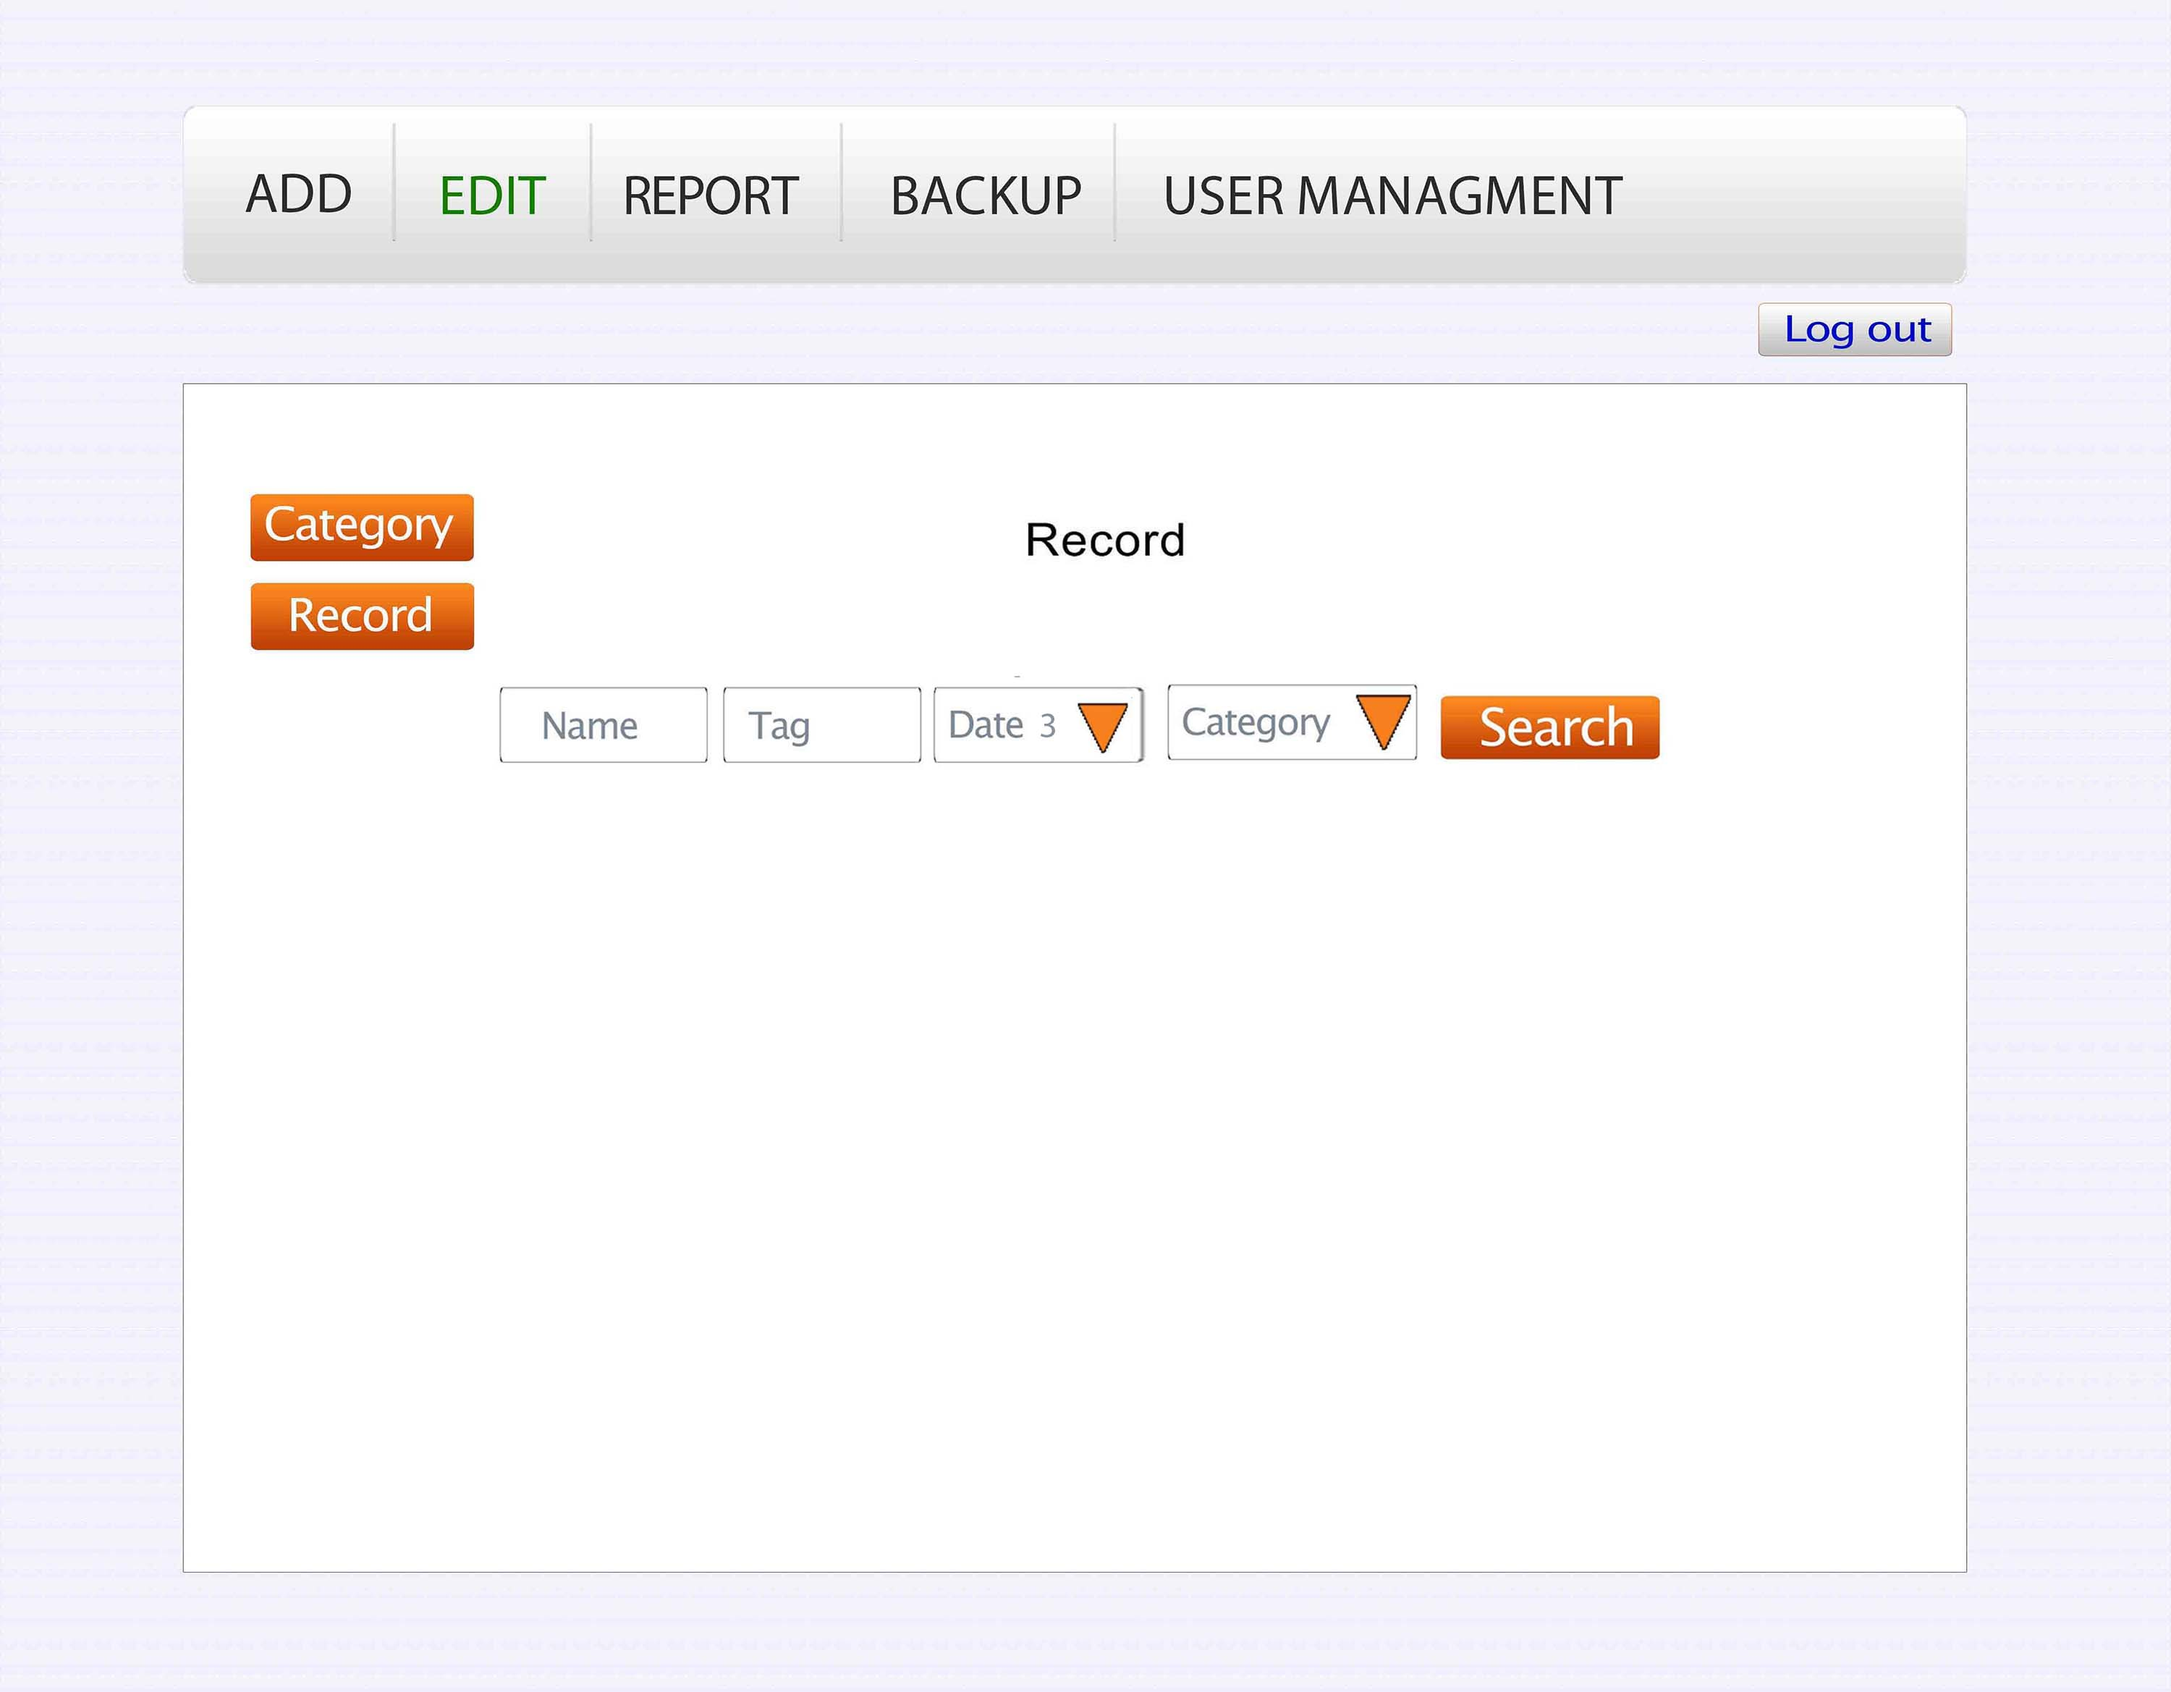
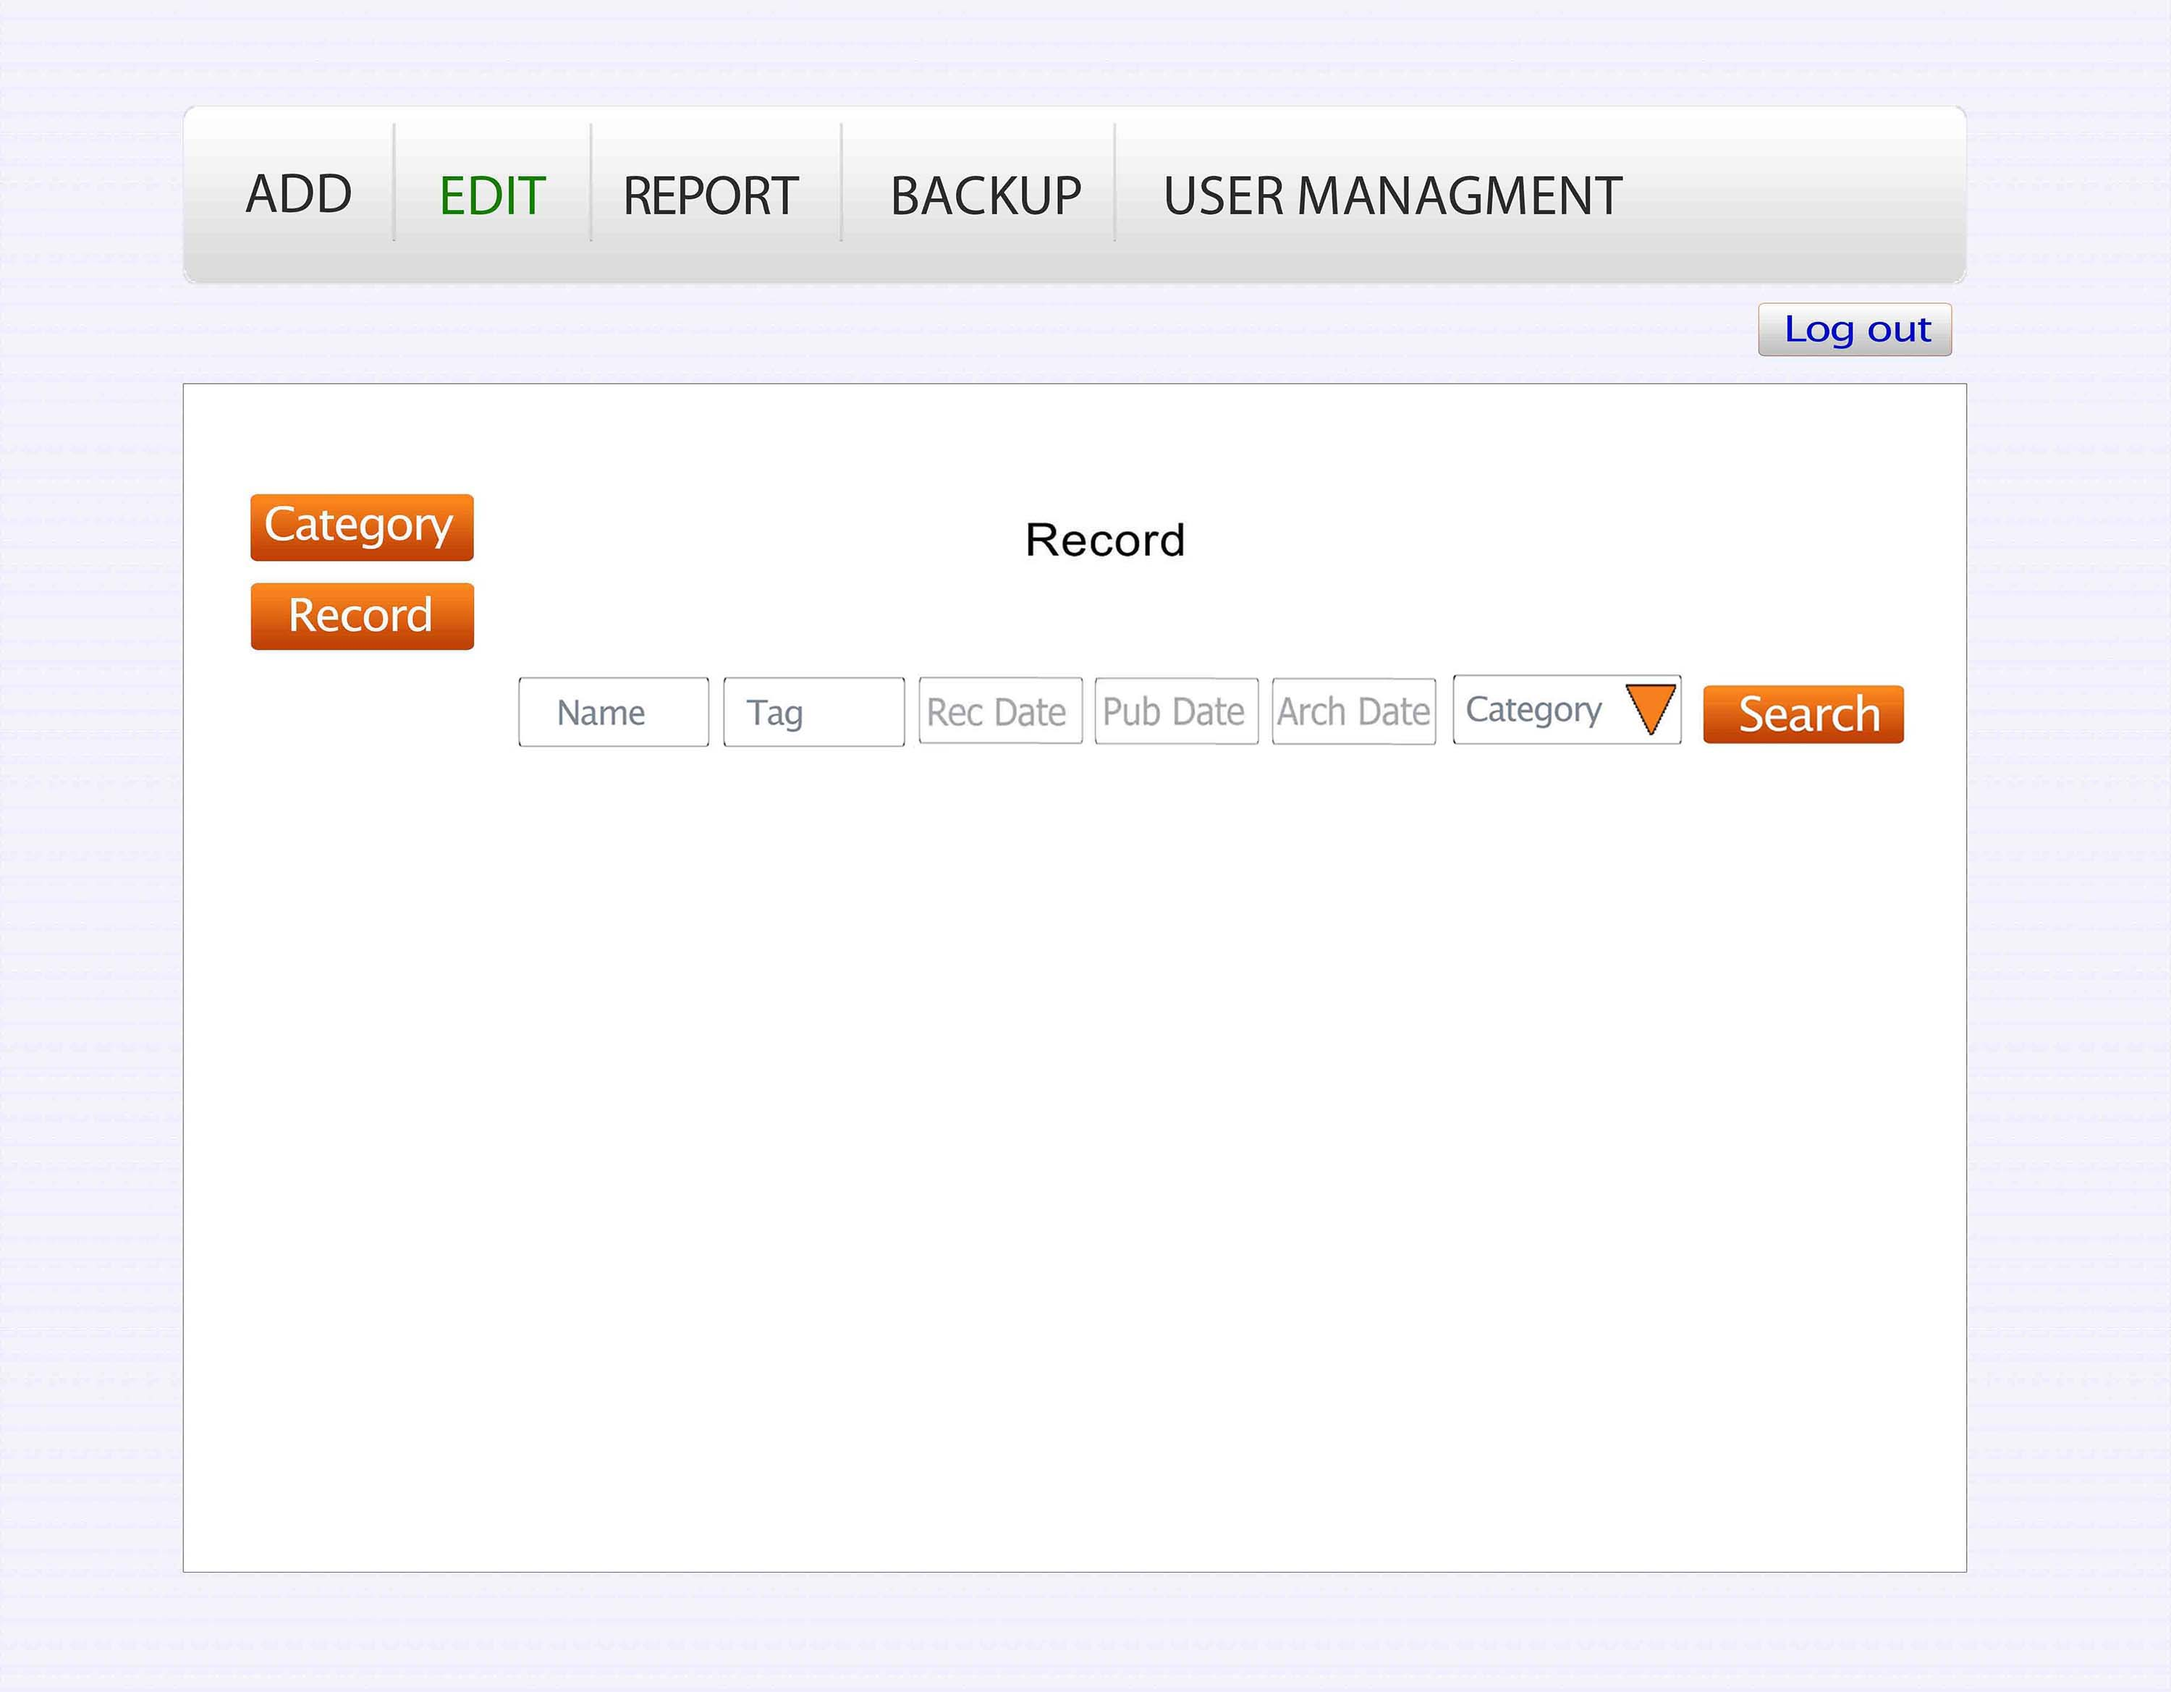
Some remaining parts added ( report-2 )
report -2 by the form , dates in three column

Changed region(s): [[0.403, 0.4059, 0.899, 0.4683], [0.248, 0.4059, 0.31, 0.4371], [0.341, 0.4059, 0.372, 0.4371]]

diff --git a/Documentation/Full Report/Full Report.md b/Documentation/Full Report/Full Report.md
@@ -1,4 +1,4 @@
-												786
+																786
 <img src="UI-Images/TVAM.jpg" height="630" width="800"> <br> <br> <br> 
 THE ALPHA TEAM PROPOSAL FOR SERVICES
 ============================================
@@ -167,16 +167,16 @@ We expect our proposed solution to Eslaah TV's requirements to provide the follo
 
 ### Financial Benefits ###
 
-* < Result #1: Requires less resources
-* < Result #2: Efficient usage of resources
-* < Result #3: Increased productivity
+* <Result #1: Requires less resources
+* <Result #2: Efficient usage of resources
+* <Result #3: Increased productivity
 
 ### Technical Benefits ###
 
-* < Result #1: Increased work agility>
-* < Result #2: Easy data trouble shooting>
-* < Result #3: Easy data management>
-* < Result #4: increased work accuracy
+* <Result #1: Increased work agility>
+* <Result #2: Easy data trouble shooting>
+* <Result #3: Easy data management>
+* <Result #4: increased work accuracy
 
 CONCLUSION
 -------------------------
@@ -413,13 +413,15 @@ Fig3: Edit
 <img src="UI-Images/3-Edit.jpg" height="630" width="800"> <br> 
 Fig4: Edit-2 
 <img src="UI-Images/4-Editt.jpg" height="630" width="800"> <br> 
-Fig5: Report 
-<img src="UI-Images/5-Report.jpg" height="630" width="800"> <br> 
-Fig6: Backup 
+Fig5: Report-1 
+<img src="UI-Images/5-Report-1.jpg" height="630" width="800"> <br> 
+Fig6: Report-2 
+<img src="UI-Images/5-Report-2.jpg" height="630" width="800"> <br> 
+Fig7: Backup 
 <img src="UI-Images/6-Backup.jpg" height="630" width="800"> <br> 
-Fig7: User management 
+Fig8: User management 
 <img src="UI-Images/7-user-management.jpg" height="630" width="800"> <br> 
-Fig8: User management-2 
+Fig9: User management-2 
 <img src="UI-Images/8-user-management.jpg" height="630" width="800"> <br> 
 
 
@@ -430,4 +432,3 @@ done individually.
 Thanks  
 
 The Alpha Team 
-
